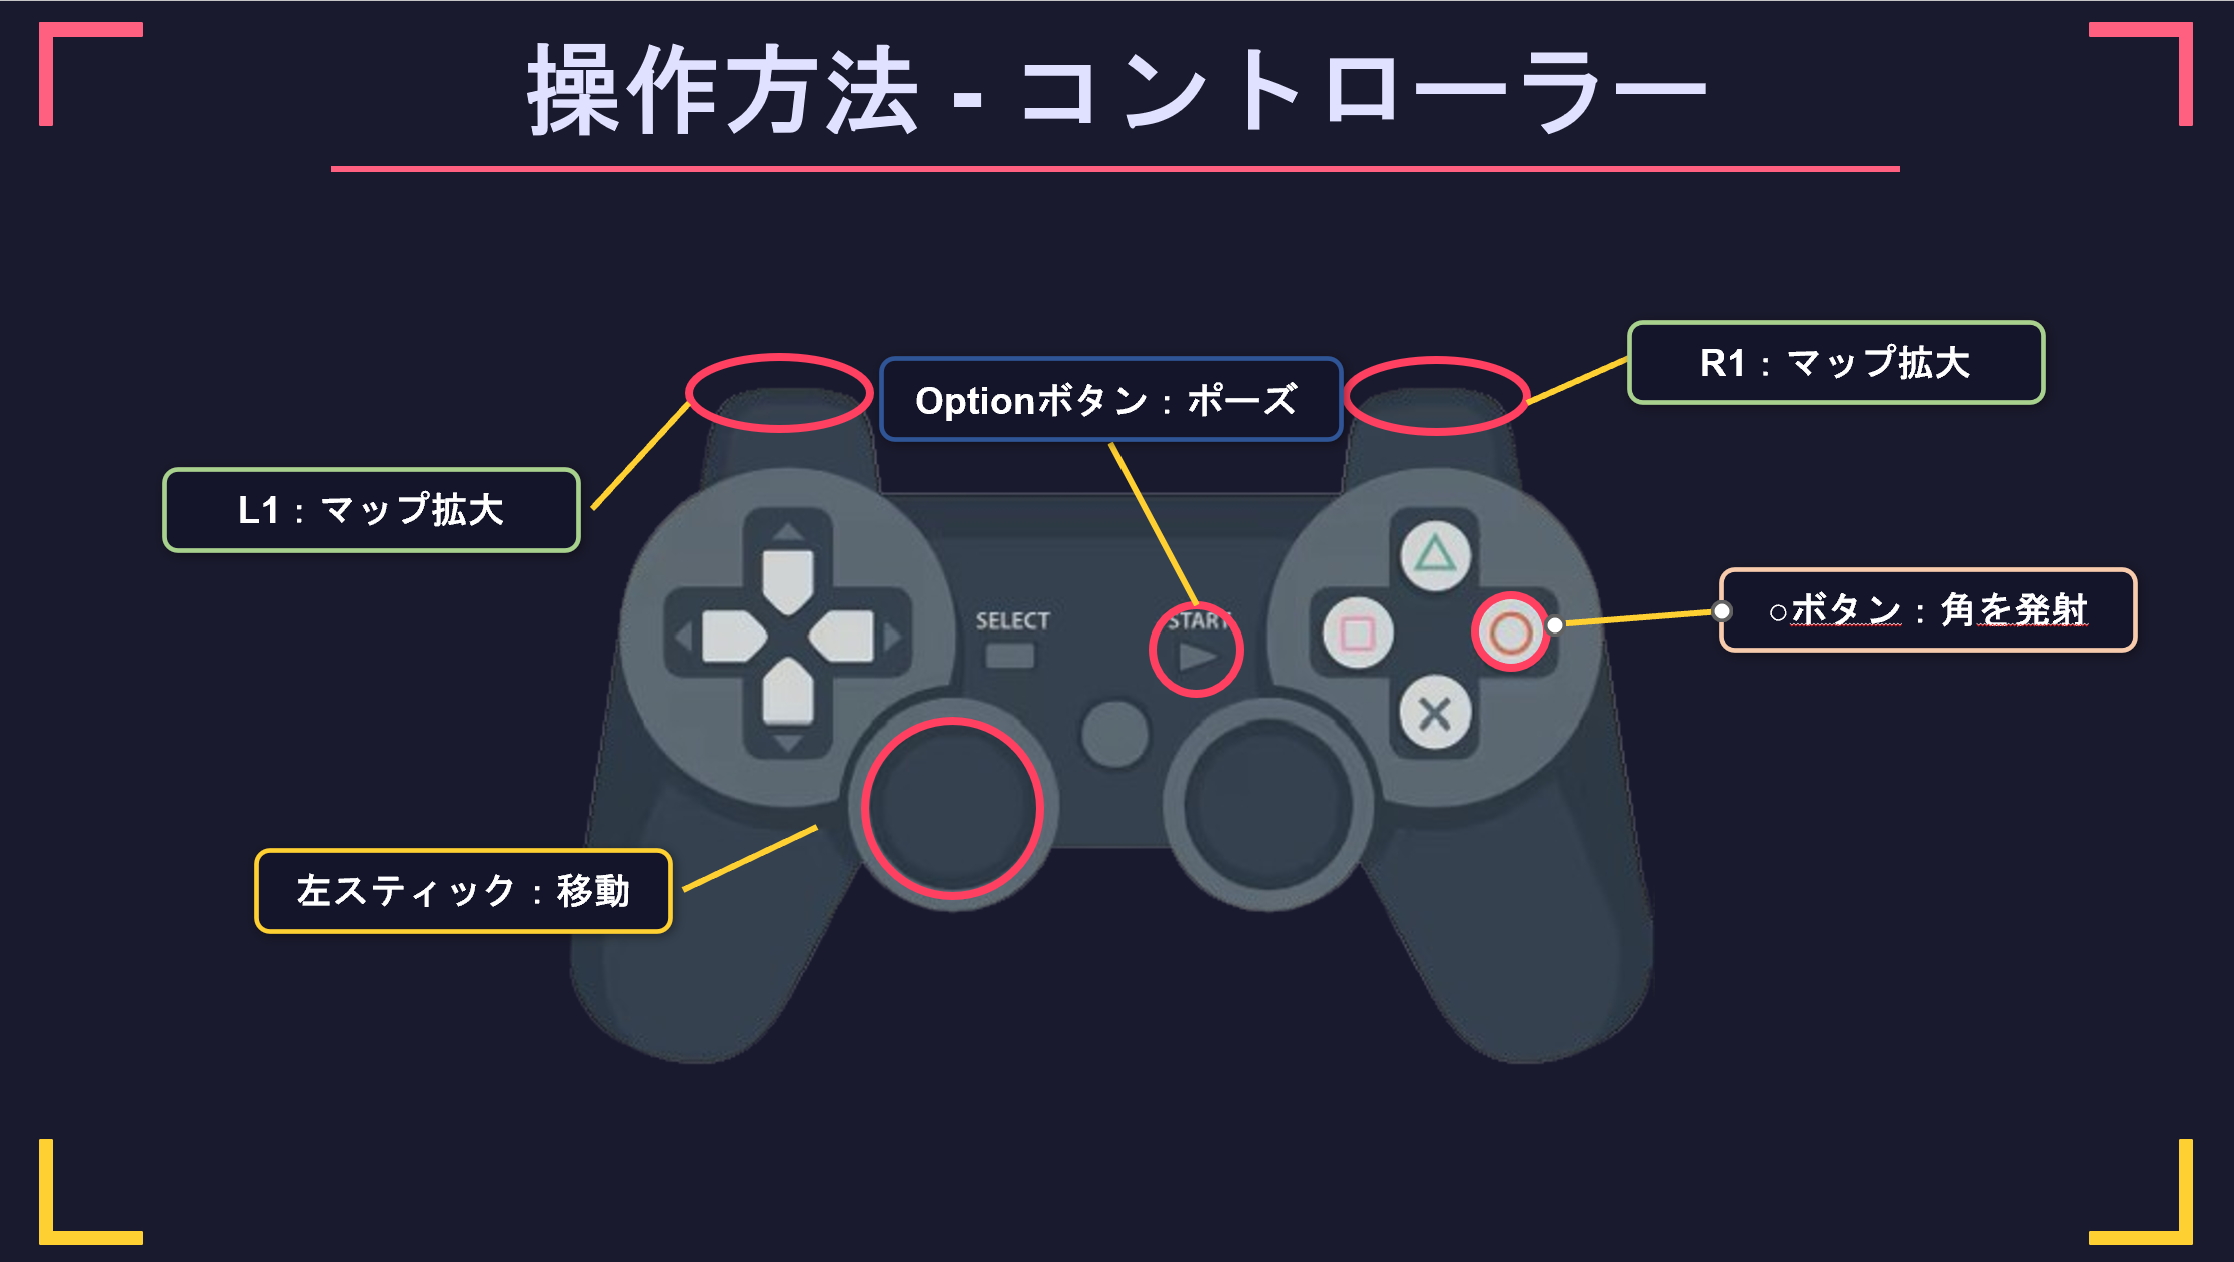
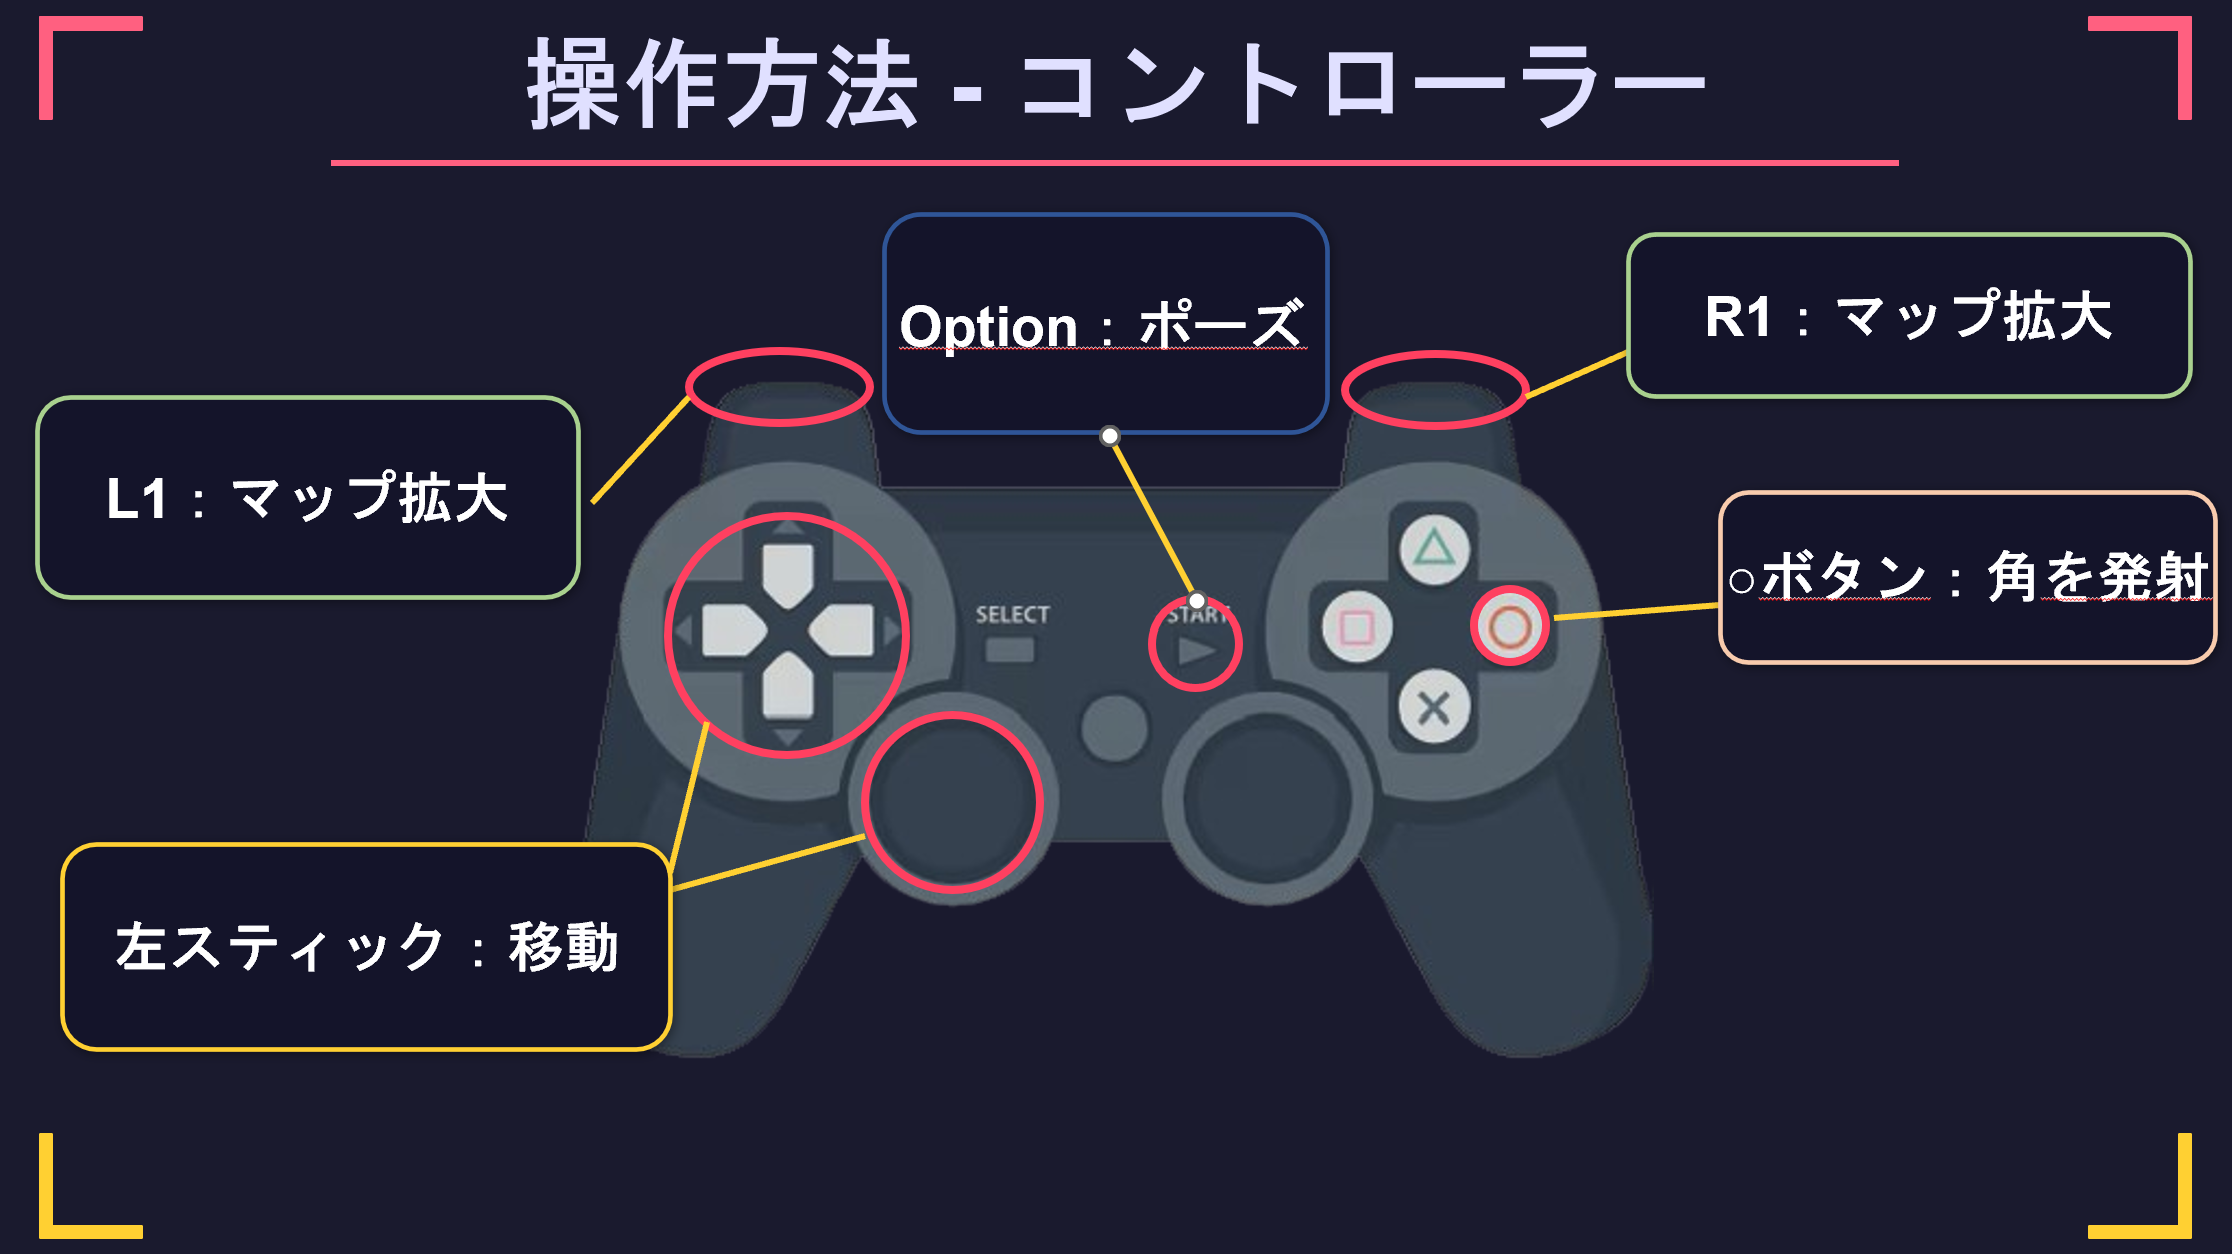
chore: 操作方法の画像を更新

diff --git a/Assets/SGC2025/Scripts/UI/SelectionGuard.cs b/Assets/SGC2025/Scripts/UI/SelectionGuard.cs
@@ -1,17 +1,21 @@
 using UnityEngine;
 using UnityEngine.EventSystems;
+using UnityEngine.InputSystem;
 
 namespace SGC2025.UI
 {
     /// <summary>
     /// 選択中のUIがnullになったとき、直前に選択していた有効な要素へ自動で復帰させる。
-    /// マウスで空白をクリックした際の選択解除や、マウス↔コントローラー切替で
-    /// 操作不能になる定番の不具合を防ぐ。
+    /// コントローラー操作で「選択が外れて操作不能」になるのを防ぐ。
+    /// マウス操作中は復帰を行わない（マウスとパッドの競合・誤フォーカスを防ぐ）。
     /// 常駐するEventSystemと同じGameObjectにアタッチして使う。
     /// </summary>
     [RequireComponent(typeof(EventSystem))]
     public class SelectionGuard : MonoBehaviour
     {
+        [Tooltip("マウス操作中とみなすカーソル移動量のしきい値（二乗）")]
+        [SerializeField] private float mouseMoveThreshold = 0.01f;
+
         private GameObject lastSelected;
 
         private void Update()
@@ -21,18 +25,34 @@ namespace SGC2025.UI
 
             GameObject current = eventSystem.currentSelectedGameObject;
 
-            // 有効な選択中はそれを記憶しておく
+            // 有効な選択中は常にそれを記憶しておく（マウス操作中でも記録は続ける）
             if (current != null && current.activeInHierarchy)
             {
                 lastSelected = current;
                 return;
             }
 
+            // マウス操作中は強制復帰しない。
+            // マウスでメニューをクリックした瞬間に選択が一時的に外れても、
+            // 直前の選択（右パネル等）へ引き戻さないようにする。
+            if (IsMouseBeingUsed()) return;
+
             // 選択が外れた → まだ画面に存在する直前の要素へ復帰させる。
             // 復帰対象が非表示（パネルを閉じた等）なら何もしないので、
             // ゲームプレイ中など「UIを選択すべきでない場面」では干渉しない。
             if (lastSelected != null && lastSelected.activeInHierarchy)
                 eventSystem.SetSelectedGameObject(lastSelected);
+        }
+
+        /// <summary>マウスが動いている／ボタンが押されている間はマウス操作中とみなす。</summary>
+        private bool IsMouseBeingUsed()
+        {
+            Mouse mouse = Mouse.current;
+            if (mouse == null) return false;
+
+            return mouse.delta.ReadValue().sqrMagnitude > mouseMoveThreshold
+                || mouse.leftButton.isPressed
+                || mouse.rightButton.isPressed;
         }
     }
 }
